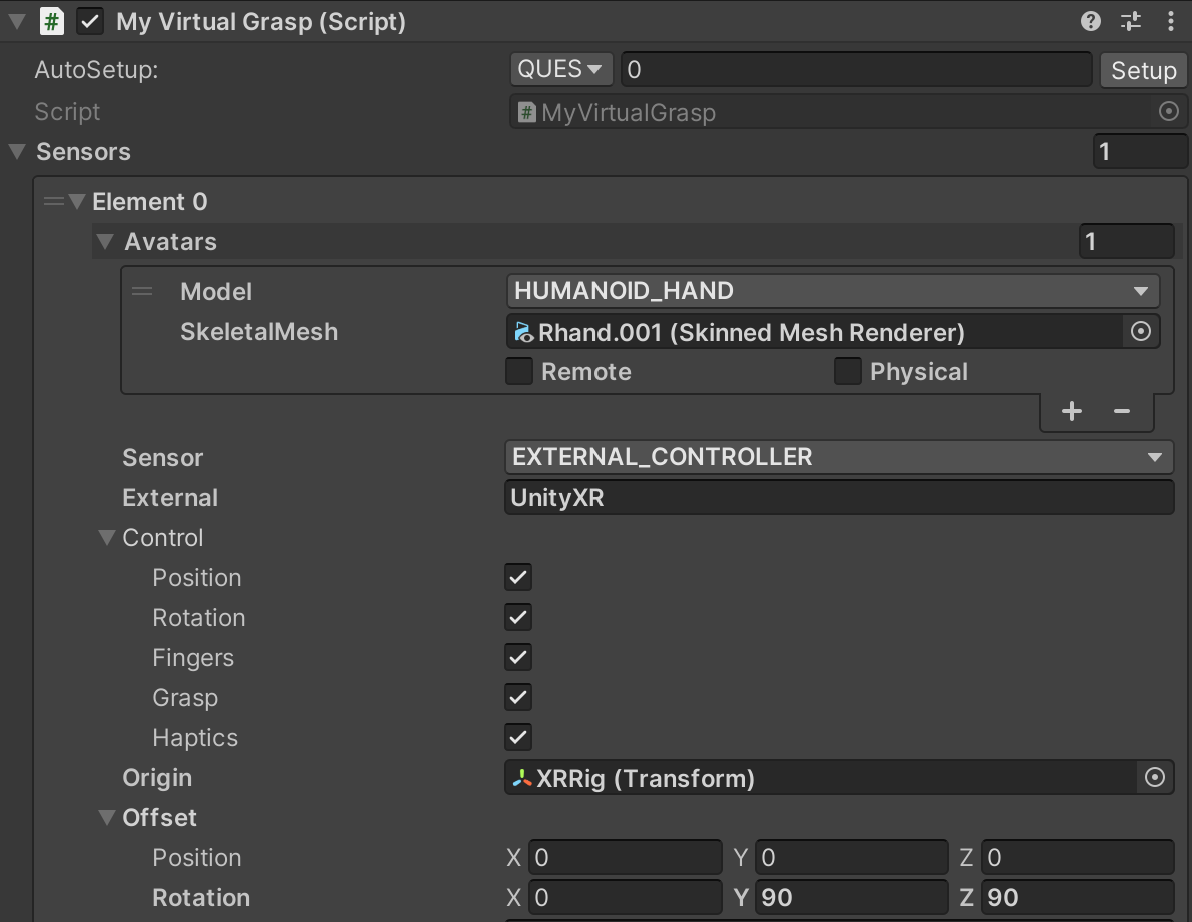
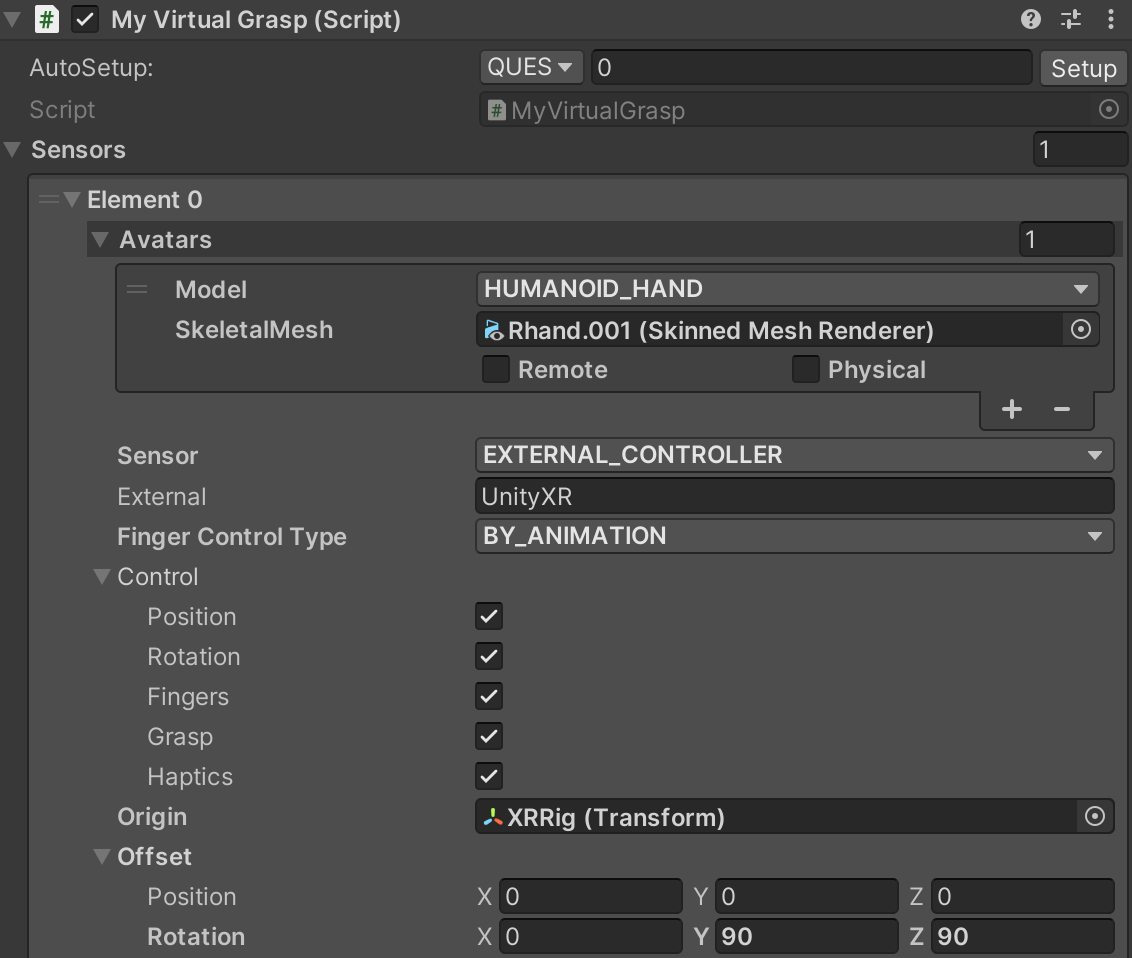
update finger control type iterface

diff --git a/_includes/image.html b/_includes/image.html
@@ -4,7 +4,7 @@
     {% endif %}
     <img class="docimage" src="images/{{include.file}}" alt="{{include.alt}}" 
         {% if {{include.max-width}} %} style="max-width: {{include.max-width}}px"{% endif %} 
-        {% if {{include.width}} %} style="width: {{include.width}}"{% endif %} 
+        {% if {{include.width}} %} style="width: {{include.width}}%"{% endif %} 
     />
     {% if {{include.url}} %}</a>{% endif %}
     {% if {{include.caption}} %}<figcaption>{{include.caption}}</figcaption>{% endif %}

diff --git a/pages/unity/unity_component_myvirtualgrasp.md b/pages/unity/unity_component_myvirtualgrasp.md
@@ -84,39 +84,25 @@ For each sensor, you can assign multiple avatars, though in most cases you will 
 |-------|--------|--------|
 | Sensor | supported | will always be External Controller for the VG SDK. | 
 | External| supported | name of the external controller, as a string, so one can write your own external controller.|  
+| Finger Control Type | supported | specify how sensor controls the finger motion. See [Finger Control Type](virtualgrasp_unityapi.html#vg_fingercontroltype). | 
 | Control | not supported | specify what this sensor element controls. If you added two sensors, then one could control wrist position, rotation and  haptics, another controls fingers and grasp for example.| 
 | Origin | supported | the origin of sensor where the sensor data is interpreted. | 
 | Offset | supported | when the virtual hands do not match to the position or rotation of your real hands holding the controllers, you can adjust the offset to synchronize them. Note that the hand coordinate system's axes, XYZ, are defined like you strech out three axes with thumb, index, and middle finger (i.e. X is thumb up, Y is index forward, and Z is middle inward) of each hand. In other words, with a fully flat hand, all finger point along the positive Y axis, and your palm faces the positive Z axis.| 
 
-<!--{% include image.html file="knowledge/lhs_rhs.png" alt="LHS/RHS" caption="The offset is applied in LHS (left hand system) for the left and RHS (right hand system) for the right hand." %}-->
-{% include image.html file="knowledge/3D_Cartesian_Coodinate_Handedness.jpg" alt="LHS/RHS" %} <figcaption>The offset is applied in LHS (left hand system) for the left and RHS (right hand system) for the right hand.<br>Source: Original by <a href="https://commons.wikimedia.org/wiki/File:3D_Cartesian_Coodinate_Handedness.jpg">PrimalShell</a>, <a href="https://en.wikipedia.org/wiki/en:Creative_Commons">Creative Commons</a> <a href="https://creativecommons.org/licenses/by-sa/3.0/deed.en">Attribution-Share Alike 3.0 Unported</a> license.</figcaption>
-
-## Sensor Settings
-
-{% include image.html file="unity/unity_vg_sensor_settings.png" alt="Sensor settings in Unity." caption="Sensor settings in Unity." %}
-After you have setup how your avatar's hands are controlled, you can use the Sensor Settings interface to specify [Finger Control Type](virtualgrasp_unityapi.html#vg_fingercontroltype) and [Trigger Button](virtualgrasp_unityapi.html#vg_vrbutton) globally for all of the sensors.
-
-### Finger control type
-
-This provides the option to choose how sensor controls the finger motion. And this can be taken cared by [AutoSetup](#autosetup).
-
-| Finger Control Type | Description |
+<!--| Finger Control Type | Description |
 |-------|--------|
 | BY_SENSOR_FULL_DOFS | for sensor that can provide full dofs hand tracking like Leap Motion, the avatar hand will follow your own hand on all dofs. | 
 | BY_SENSOR_LOW_DOFS| for sensor that can only provide one dof for each finger, like some data gloves, the avatar hand finger will be bended by just one value for each finger following a predefined animation path | 
 | BY_ANIMATION | for all sensor types which all provide a single value, grabbing strength, range between 0.0 and 1.0, all fingers will follow a predefined path in animation. | 
 | BY_OSCILLATED_ANIMATION | will let hand animated a little bit when not interacting with any object to avoid "rigid hand" feeling. (Experimental) | 
-| BY_EXTERNAL | only relevant for External Controller sensor type, finger will be set by an externally specified finger dofs. | 
+| BY_EXTERNAL | only relevant for External Controller sensor type, finger will be set by an externally specified finger dofs. | -->
 
+{% include image.html width = "60" file="knowledge/3D_Cartesian_Coodinate_Handedness.jpg" alt="LHS/RHS" %} <figcaption>The offset is applied in LHS (left hand system) for the left and RHS (right hand system) for the right hand.<br>Source: Original by <a href="https://commons.wikimedia.org/wiki/File:3D_Cartesian_Coodinate_Handedness.jpg">PrimalShell</a>, <a href="https://en.wikipedia.org/wiki/en:Creative_Commons">Creative Commons</a> <a href="https://creativecommons.org/licenses/by-sa/3.0/deed.en">Attribution-Share Alike 3.0 Unported</a> license.</figcaption>
 
-### Trigger Button
+## Sensor Settings
 
-This provides the option to choose which button on a hand-held VR controller you want to use to trigger [grasp interactions](grasp_interaction.html#background).
-
-| Trigger Button | Description |
-|-------|--------|
-| TRIGGER | the VR controller's trigger button usually placed under index finger. | 
-| GRIP| the VR controller's grip button usually placed under middle and ring fingers | 
+{% include image.html file="unity/unity_vg_sensor_settings.png" alt="Sensor settings in Unity." caption="Sensor settings in Unity." %}
+After you have setup how your avatar's hands are controlled, you can use the Sensor Settings interface to specify [Trigger Button](virtualgrasp_unityapi.html#vg_vrbutton) globally for all of the sensors.
 
 ## Object Identifiers
 
